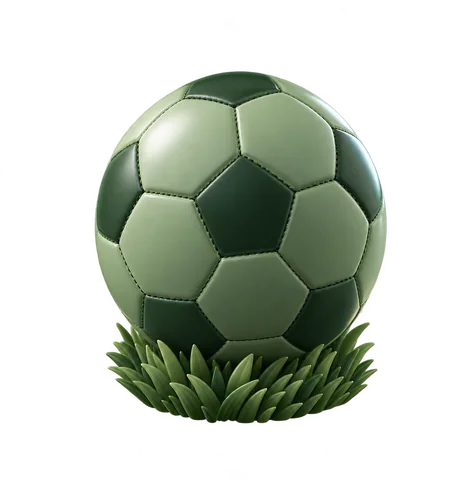
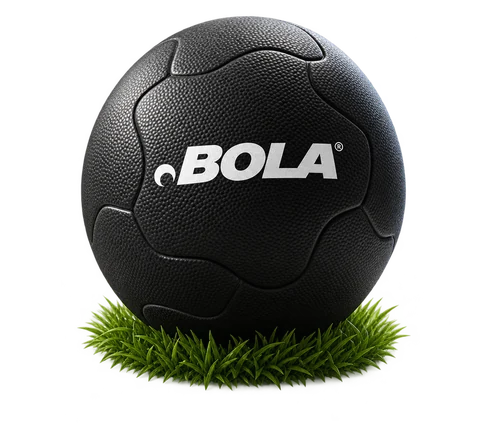
Ma carte : le ballon Bola sur la tuile Ma saison (#244)
* Ma carte : des tuiles à objet en relief (ballon, jeton Bola, coupe…)

- Les rubriques (Ma saison, Niveau XP, Évolution, Badges, Mes cartes, le Flair) ont chacune un objet 3D détouré qui déborde du coin, sous le texte : ballon, jeton Bola, marches, coupe chrome irisé, pile de cartes, boule du Flair (public/objets, GPT Image).
- Badges et Mes cartes : la coupe et la pile remplacent les médailles et la mini-carte ; le compte passe en Anton.
- Personnaliser ma carte et Inviter : côte à côte, en tuiles à objet (bombe de peinture irisée, enveloppe mauve).
- Tient en clair comme en sombre ; aucun or, bleu ni rouge.

Claude-Session: https://claude.ai/code/session_019wRLTPzPguyNfF75nWcUtJ

* Ma carte : le ballon Bola sur la tuile Ma saison

- Le ballon générique laisse la place au vrai ballon Bola (cuir noir grainé, coutures en S, logo BOLA blanc), d'après le ballon du stade Olympe et le logo.

Claude-Session: https://claude.ai/code/session_019wRLTPzPguyNfF75nWcUtJ

---------

diff --git a/src/components/sfl/ma-carte/rubriques.tsx b/src/components/sfl/ma-carte/rubriques.tsx
@@ -109,7 +109,7 @@ export const classesTuile = (ton: Ton) => cn("tuile tuile--objet flex flex-col g
  * Une tuile : son ton, son étiquette, son contenu ; la toucher ouvre sa page.
  * Son fond est un objet en relief (Sabri, 31/10 : « des espèces d'objets […]
  * des images, mais on dirait des objets 3D », comme les boutons d'Higgsfield) :
- * le ballon de ma saison, le jeton Bola de l'XP, les marches de l'évolution,
+ * le ballon Bola de ma saison, le jeton Bola de l'XP, les marches de l'évolution,
  * la coupe chrome des badges, mes cartes en pile, la boule du Flair
  * (public/objets, rendus GPT Image, fonds transparents). L'objet déborde du
  * coin, sous le texte, qui garde sa place.
